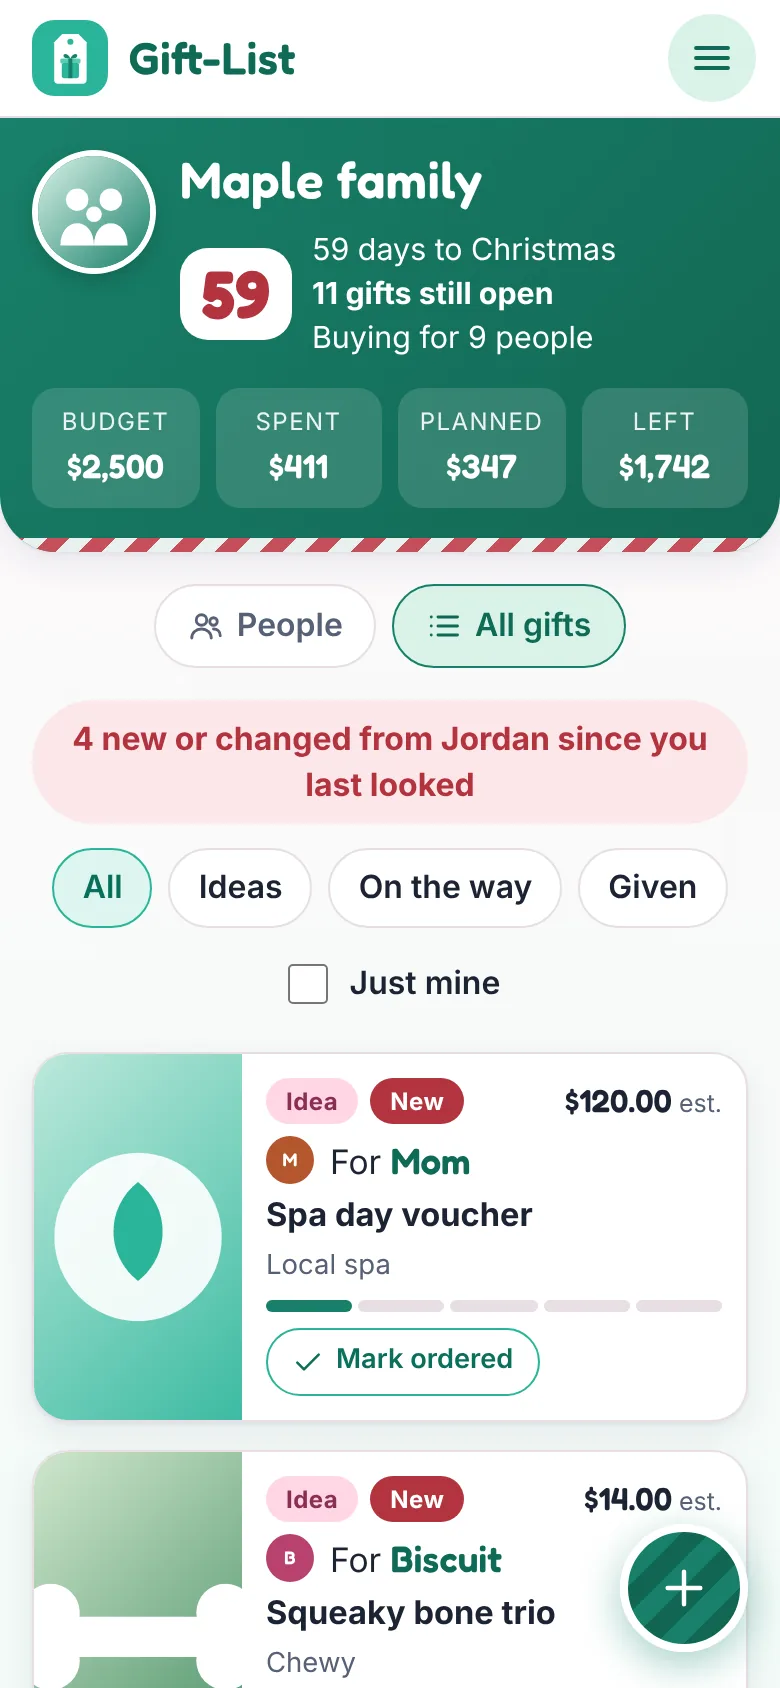
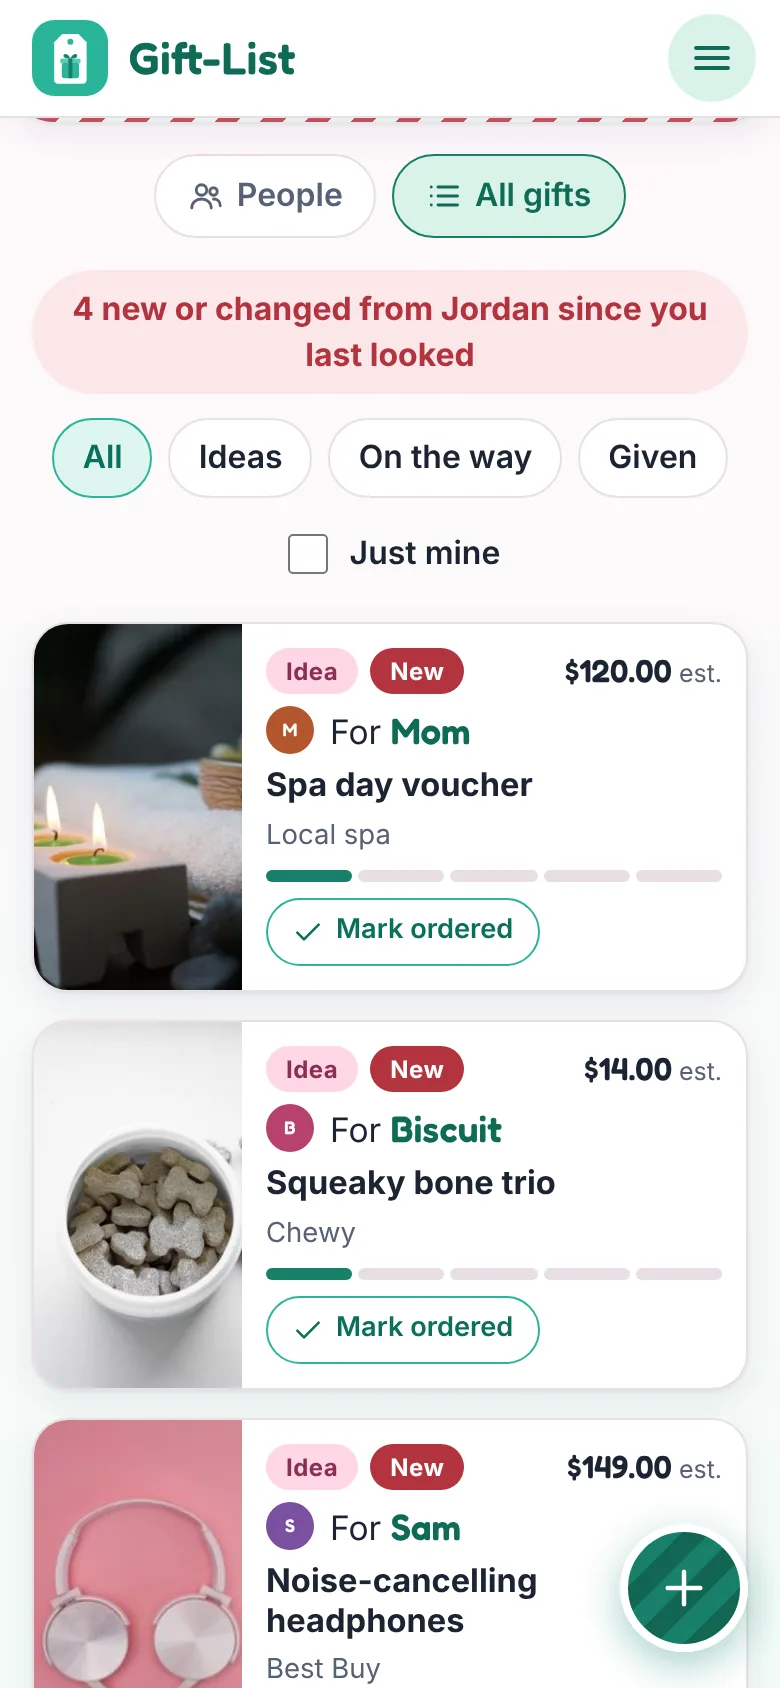
Landing screens: real stock photos on the gift cards (#50)
Claude-Session: https://claude.ai/code/session_01QU72hNHumgCYNJom92zNrY

diff --git a/docs/landing-page.md b/docs/landing-page.md
@@ -11,7 +11,7 @@ What visitors see when they are not signed in: a hero, five feature rows with re
 - `index.html` has the description and Open Graph tags (share image: `public/landing/screen-people.webp`).
 
 ## The screens
-`public/landing/screen-*.webp` are real screenshots of the real app, filled with a made-up family ("Maple family"): no real names, emails or photos. Pictures on the gift cards are generated illustrations.
+`public/landing/screen-*.webp` are real screenshots of the real app, filled with a made-up family ("Maple family"): no real names, emails or photos. The pictures on the gift cards are free-to-use stock photos from Pexels (list below), so the cards look like a real list.
 
 `docs/landing/make-screens.mjs` makes them. It runs the built app in headless Chromium and answers every Supabase request with the invented household, so nothing real is read or written.
 
@@ -21,6 +21,22 @@ npx vite preview --outDir /tmp/demo-dist --port 4173
 PW_PATH=<path to playwright/index.js> OUT=/tmp/shots node docs/landing/make-screens.mjs
 ```
 Then convert the PNGs to WebP (quality about 82, 780 px wide) into `public/landing/`.
+
+## Gift photos
+Pexels photos (free to use, no credit needed; the Pexels licence still bars selling them as is). The script serves them from a `photos/` folder next to it, one JPEG per key, saved from
+`https://images.pexels.com/photos/<id>/pexels-photo-<id>.jpeg?auto=compress&cs=tinysrgb&w=500`:
+
+| Key | Pexels ID | Key | Pexels ID |
+|---|---|---|---|
+| scarf | 3151954 | game (chess) | 8438872 |
+| spa | 1926811 | lego (toy blocks) | 298825 |
+| pan | 5639274 | bone | 13419673 |
+| book | 9572701 | plant | 1931143 |
+| slippers | 6633363 | phones | 7054538 |
+| art | 29589096 | sauce | 5793770 |
+| soap | 16244099 | | |
+
+The family picture on the household header is a generated illustration. Pexels' search needs a free API key and its website blocks scripts, so photo IDs were found through web search, then checked by eye. Do not use photos of identifiable people for gifts.
 
 ## Pitfalls
 - The screenshots show the Christmas countdown as of the day they were taken ("59 days"). Re-shoot when the app's look changes, or when the number looks odd.
